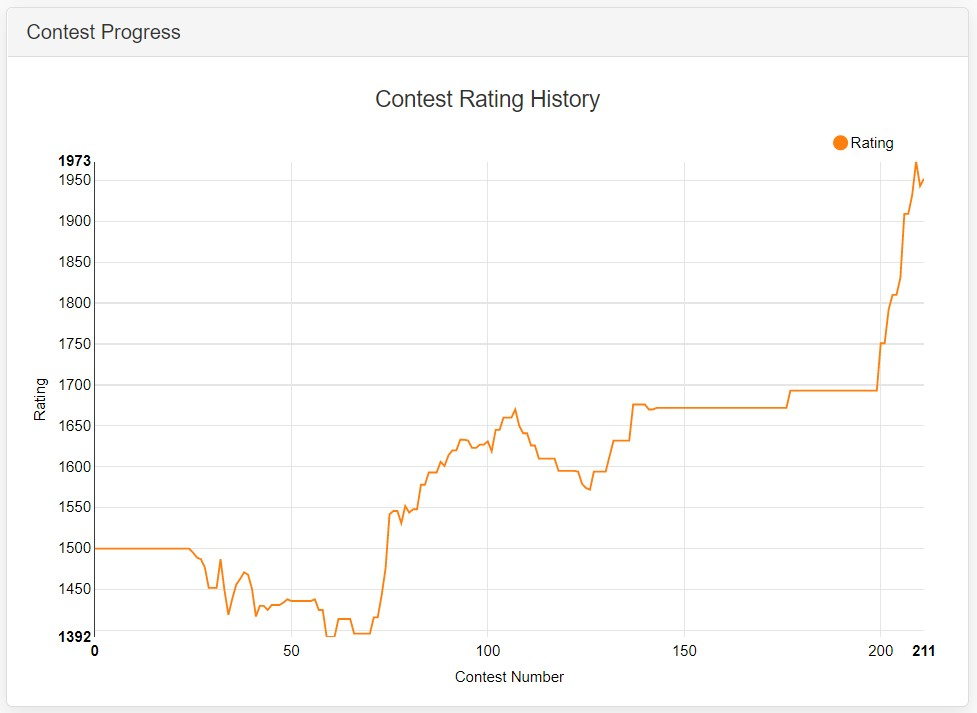
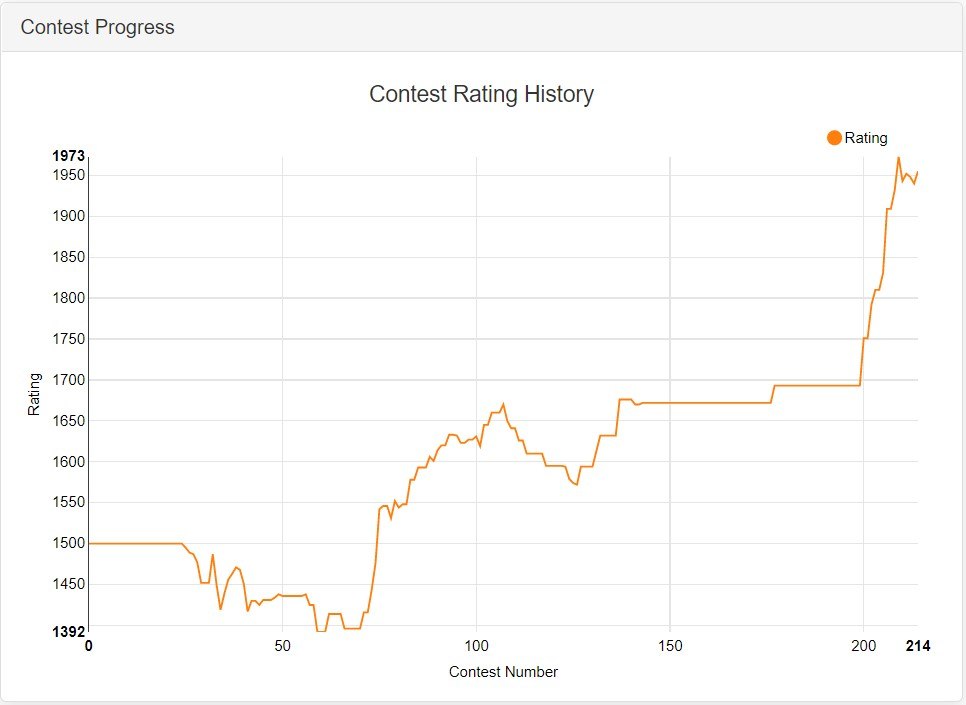
stories update

diff --git a/blog/stories/stories1.md b/blog/stories/stories1.md
@@ -1,0 +1,69 @@
+---
+layout: post
+title: The PennApps Curse
+permalink: /stories1/
+category: stories
+tag: stories
+date: 5/6/2020
+order: 1
+---
+
+This is more of a funny story and not really that serious. I just found it funny looking back. In 2017-2018 I went on a pretty long hackathon tour travelling around the US and Canada.
+
+<img src="1/hackathons.jpg"/>
+(Photo shows the hackathons with most recent at the top)
+
+I went to: (in-order)
+- PennApps XVI
+- Hack the North 2017
+- MHacksX (W)
+- ETHWaterloo (W)
+- PennApps XVII
+- Hack Princeton Spring 2018 (W)
+- Red Bull AdrenaLAN (W)
+- PennApps XVIII
+- Mhacks11 (W)
+
+I'm ignoring Hack the North cause I my team disbanded and I've only gotten accepted once. Also it works better for the narrative of this post if we ignore Hack the North 2017.
+
+The pattern here was that despite going to PennApps 3 times, I was never able to win anything. Every other hackathon I was able to win something. Not only that but PennApps blocked the three-peat twice. (depending on how you combinatorically look at it you could also say PennApps blocked the three-peat four possible ways.)
+
+### What is PennApps?
+
+PennApps is the OG hackathon. It actually is the FIRST hackathon. [(Source)](https://en.wikipedia.org/wiki/Hackathon#For_a_demographic_group) They set the standard in a lot of places, notable MHacks, for fun, events, swag, and overall organization for a lot of hackathons.
+
+Many hackathons claim to be the "largest one in NA", but PennApps (at least before 2019) was the one of the largest hackathons usually totaling 1000+ and probably closer to 1200+. Even hackathons like Hack the North were usually capped at ~1000 due to space requirements before E7 expansion.
+
+I think I actually went to a few hackathons that claimed to be "the largest" hackathons in North America which included MHacks 8 (2k+ people) and one of the iterations of PennApps. I don't have exact figures or remember exactly. The Mhacks 8 masonic temple 2k+ is probably another story in itself cause Detroit streets are kinda bare midday.
+
+### Philadelphia, Pennsylvania
+
+PennApps takes its name from University of Pennsylvania. The school is most known for their business program "Wharton" with famous people attending that school like Donald Trump, Elon Musk, and Warren Buffett. (It is true, look it up)
+
+It is also a bit of a brutal bus ride to Philadelphia. It is ~8 hours one way from Waterloo including crossing the border. Not only is that a huge time sink (you usually leave early Friday and coming back on Monday at 3am was not uncommon) but there is fatigue as opposed to being "local to the area".
+
+I don't want to make that seem like an excuse but it is easier when you live in the area and hack as opposed to sleeping on the floor (which I had to grow accustomed to) for many hackathons. Sleeping on the floor is an acquired taste, and if not then you usually collapse from sleep deprivation or exhaustion.
+
+### Why did I never win at PennApps?
+
+Honestly hackathons are variable enough so I'm not too upset I never won at a PennApps. One of the factors that contributed might be the level of competition and what projects the judges usually look for. PennApps is a very hardware focused hackathon and I found a lot of physical projects won due to their tangible nature. I'm going to look back at each time I went to PennApps.
+
+### Hardware Projects
+
+I'm not very familiar with breadboard, arduino, or raspberry pi projects. Looking back at hackathons I think I only did pure-software projects.
+
+### PennApps XVI
+
+This was my first time going to PennApps. I formed a team at team formation and we were working on a project involving the blackrock api charting stock prices. This one I had a really good feeling about since a lot of judges were really interested in the project. I was fairly sleep deprived due to working on bugs in the backend api calls and trying to figure out what a promise was. I felt we were really close with this one.
+
+### PennApps XVII
+
+I tried using NLP to parse crypto whitepages and explain them in an easy format. This project I tried to carry the team and the idea itself was a bit flawed both from UI and overall execution. Sometimes ideas flop and that's ok.
+
+### PennApps XVIII
+
+We were working on a Unity game that focused on disaster prevention. I thought the idea was pretty solid and the execution wasn't too bad either. We had a team that was fair committed and hardworking on the project. It didn't pan out in the end with judges.
+
+### Final Thoughts on The PennApps Curse
+
+Did I get cursed by PennApps? Who knows. If I went back for a fourth time I don't think I would be able to win. I'm much more skilled than I was 3 years ago but proven by NwHacks I can't go as long without sleep as I used to. I think it is funny to think I never was able to get the MLH hackathon three-peat due to PennApps separate times.

diff --git a/cp/cp.md b/cp/cp.md
@@ -3,18 +3,18 @@ layout: page
 title: Competitive Programming
 permalink: /cp/
 ---
+**last updated: May 6th, 2020**
 
 ### Leetcode Contest Ranks
 
-`82` Finished Contests
+`81` Finished Contests
 
-`1948` Rating
+`1955` Rating
 
-`2251 / 93873` Global Ranking
+`2226 / 96126` Global Ranking
 
 <img src="leetcode.jpg"/>
 
-**last updated: May 3rd, 2020**
 - weekly-contest-187 `955/12349`, Top `7.73%`
 - biweekly-contest-25, `1210/7699`, Top `15.72%`
 - weekly-contest-186, `1559/11684` Top `13.34%` (YIKES)
@@ -106,6 +106,7 @@ Contest rating: `1352`
 
 [https://codeforces.com/contests/with/recklessinkblot](https://codeforces.com/contests/with/recklessinkblot)
 
+- Codeforces Round \#639 Div 2, Rank `4000`, Solve `2` (Unranked due to server issues)
 - Codeforces Round \#638 Div 2, Rank `5501`, Solved `2`
 - Education Codeforces Round 86 Div 2, Rank `10178`, Solved `1` (YIKES)
 - Codeforces Round \#637 Div 2, Rank `8925`, Solved `1` (YIKES)

diff --git a/about-me/about-me.md b/about-me/about-me.md
@@ -17,7 +17,7 @@ I've been to a lot of hackathons traveling the US and Canada: [Devpost](https://
 
 <img src="/about-me/pictures/leetcode.png" width="40%" height="40%"/>
 
-`Top 2%` in Leetcode Weekly Contests
+`Top 2.5%` in Leetcode Weekly Contests
 
 `1950+ Rating` in Leetcode Weekly Contests
 
